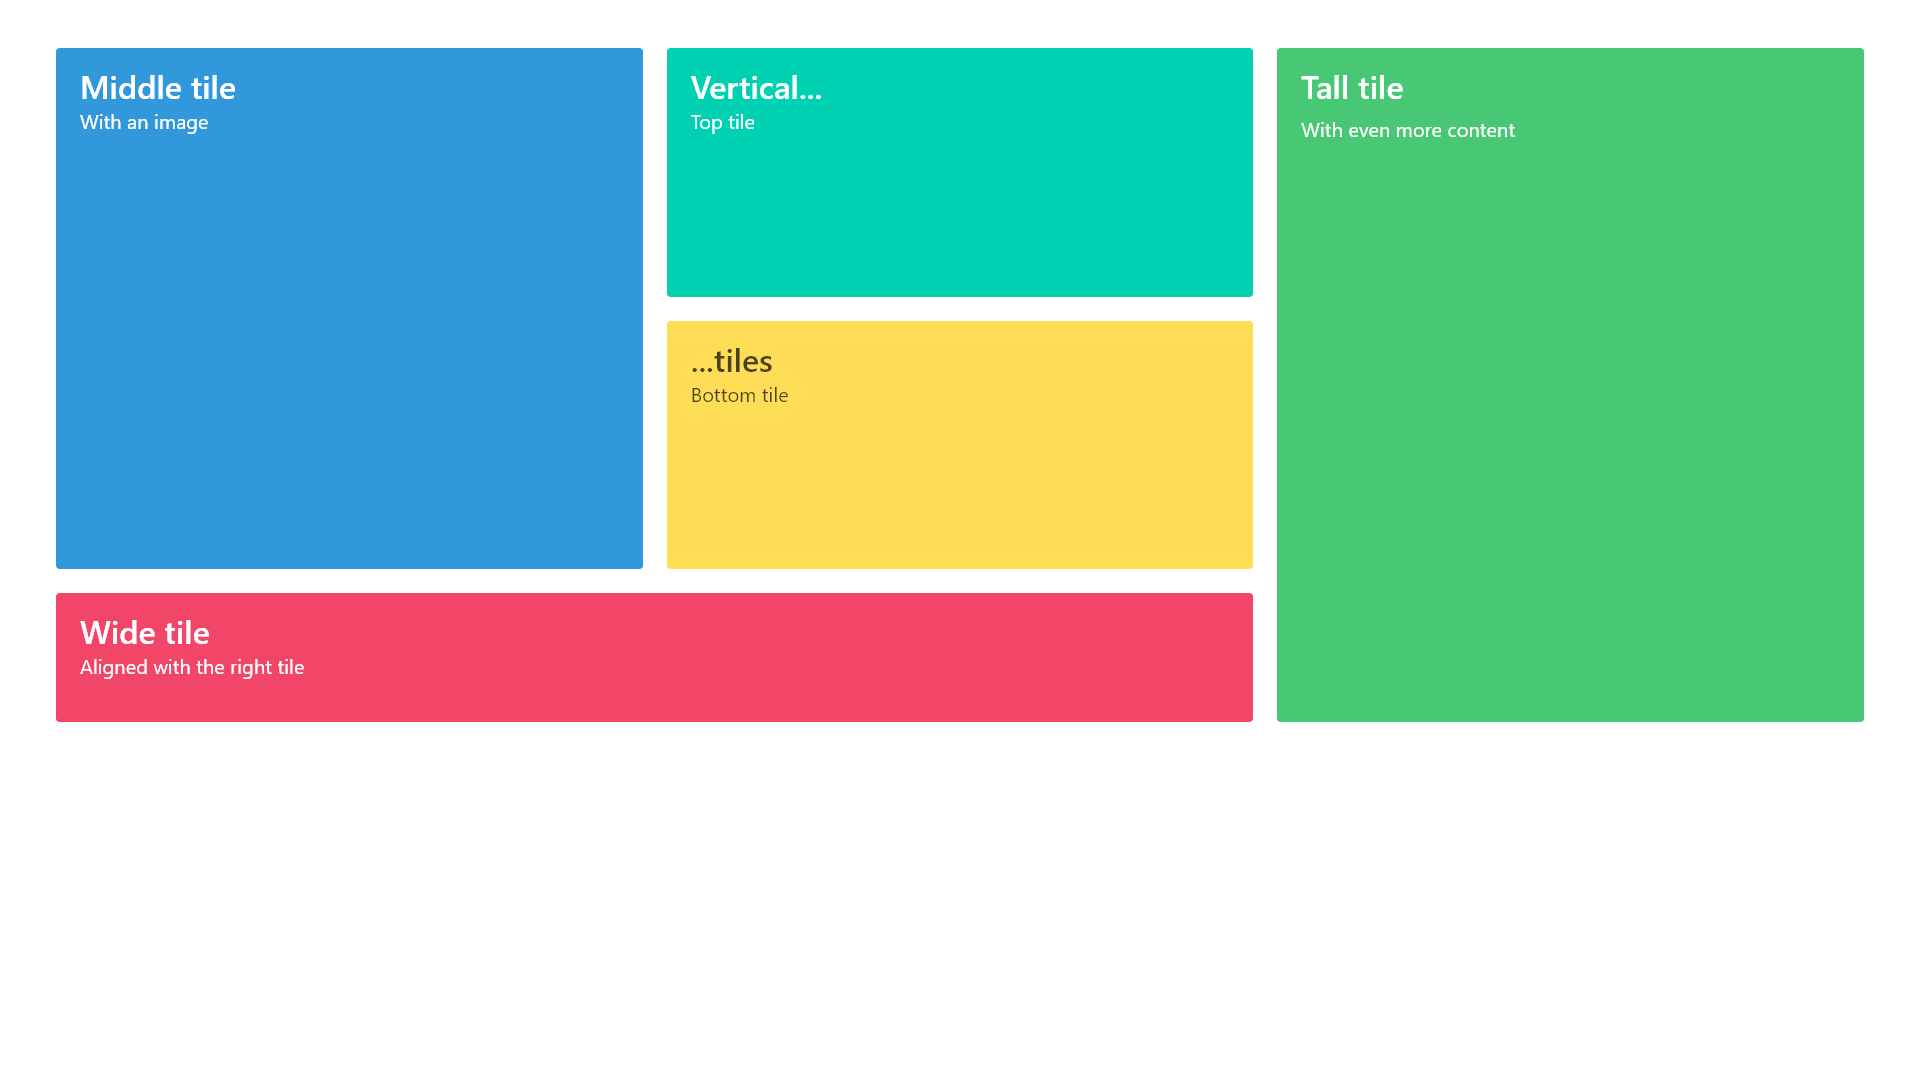
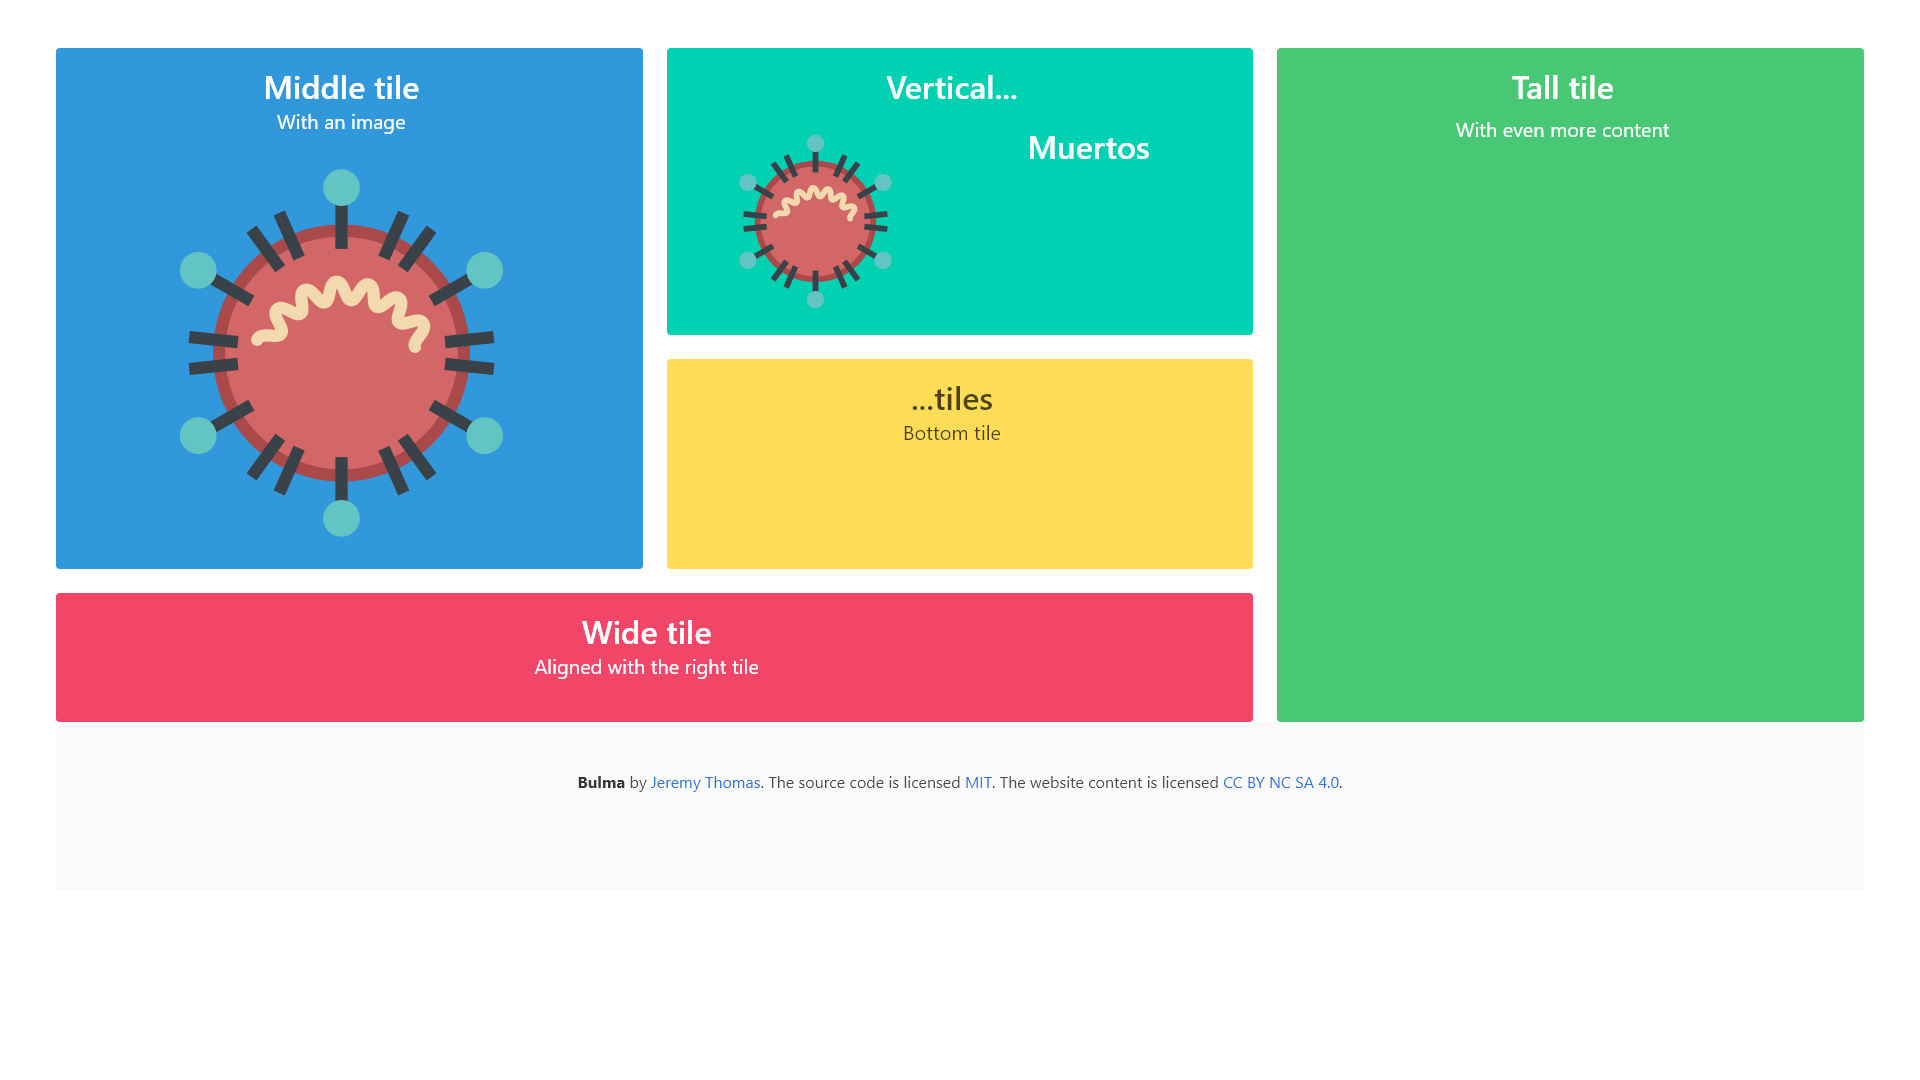
components

diff --git a/components/Top.vue b/components/Top.vue
@@ -1,0 +1,57 @@
+<template>
+  <div>
+    <div class="columns is-mobile is-centered">
+      <div class="column">
+        <div class="columns is-mobile is-centered">
+          <div class="column is-half">
+            <div class="box">
+              <article class="media">
+                <div class="media-left">
+                  <figure class="image is-128x128">
+                    <img src="~/assets/covid.svg" alt="Image" />
+                  </figure>
+                </div>
+                <div class="media-content">
+                  <div class="content">
+                    <div class="columns is-mobile is-centered">
+                      <div class="column">
+                        <p class="has-text-centered subtitle">Fecha del día</p>
+                        <div class="columns is-mobile">
+                          <div class="column">
+                            <p class=" title has-text-centered">Infectados</p>
+                          </div>
+                          <div class="column">
+                            <p class="title has-text-centered">10000</p>
+                          </div>
+                        </div>
+                      </div>
+                    </div>
+                  </div>
+                  <nav class="level is-mobile">
+                    <div class="level-left">
+                      <a class="level-item" aria-label="reply">
+                        <span class="icon is-small">
+                          <i class="fas fa-reply" aria-hidden="true"></i>
+                        </span>
+                      </a>
+                      <a class="level-item" aria-label="retweet">
+                        <span class="icon is-small">
+                          <i class="fas fa-retweet" aria-hidden="true"></i>
+                        </span>
+                      </a>
+                      <a class="level-item" aria-label="like">
+                        <span class="icon is-small">
+                          <i class="fas fa-heart" aria-hidden="true"></i>
+                        </span>
+                      </a>
+                    </div>
+                  </nav>
+                </div>
+              </article>
+            </div>
+          </div>
+        </div>
+      </div>
+    </div>
+  </div>
+</template>

diff --git a/components/Boxes.vue b/components/Boxes.vue
@@ -1,0 +1,47 @@
+<template>
+  <div>
+    <div class="columns is-vcentered">
+      <div class="column is-one-third"></div>
+      <div class="column">
+        <div class="box">
+          <article class="media">
+            <div class="media-left">
+              <figure class="image is-128x128">
+                <img src="~/assets/covid.svg" alt="Image" />
+              </figure>
+            </div>
+            <div class="media-content">
+              <div class="content">
+                <p>
+                  <strong>John Smith</strong>
+                  <small>@johnsmith</small>
+                  <small>31m</small>
+                  <br />
+                </p>
+              </div>
+              <nav class="level is-mobile">
+                <div class="level-left">
+                  <a class="level-item" aria-label="reply">
+                    <span class="icon is-small">
+                      <i class="fas fa-reply" aria-hidden="true"></i>
+                    </span>
+                  </a>
+                  <a class="level-item" aria-label="retweet">
+                    <span class="icon is-small">
+                      <i class="fas fa-retweet" aria-hidden="true"></i>
+                    </span>
+                  </a>
+                  <a class="level-item" aria-label="like">
+                    <span class="icon is-small">
+                      <i class="fas fa-heart" aria-hidden="true"></i>
+                    </span>
+                  </a>
+                </div>
+              </nav>
+            </div>
+          </article>
+        </div>
+      </div>
+    </div>
+  </div>
+</template>

diff --git a/components/Tiles.vue b/components/Tiles.vue
@@ -8,14 +8,29 @@
               <p class="title">Middle tile</p>
               <p class="subtitle">With an image</p>
               <figure class="image is-4by3">
-                <img src="https://bulma.io/images/placeholders/640x480.png" />
+                <img src="~/assets/covid.svg" />
               </figure>
             </article>
           </div>
           <div class="tile is-parent is-vertical">
             <article class="tile is-child notification is-primary">
               <p class="title">Vertical...</p>
-              <p class="subtitle">Top tile</p>
+              <div class="content">
+                <div class="columns is-vcentered">
+                  <div class="column">
+                    <div class="columns is-mobile">
+                      <div class="column">
+                        <figure class="image is-4by3">
+                          <img src="~/assets/covid.svg" />
+                        </figure>
+                      </div>
+                      <div class="column">
+                        <p class="title">Muertos</p>
+                      </div>
+                    </div>
+                  </div>
+                </div>
+              </div>
             </article>
             <article class="tile is-child notification is-warning">
               <p class="title">...tiles</p>

diff --git a/pages/index.vue b/pages/index.vue
@@ -1,5 +1,7 @@
 <template>
   <div>
+    <Top />
+    <Boxes />
     <Tiles />
     <Footer />
   </div>
@@ -8,11 +10,15 @@
 <script>
 import Footer from "~/components/Footer.vue";
 import Tiles from "~/components/Tiles.vue";
+import Boxes from "~/components/Boxes.vue";
+import Top from "~/components/Top.vue";
 
 export default {
   components: {
     Footer,
-    Tiles
+    Tiles,
+    Boxes,
+    Top
   }
 };
 </script>
